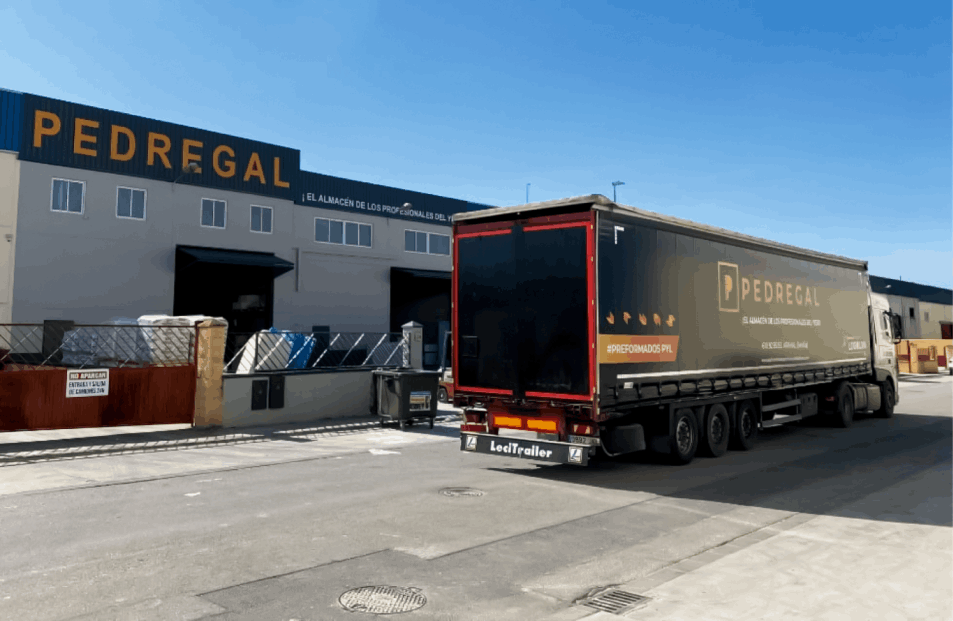
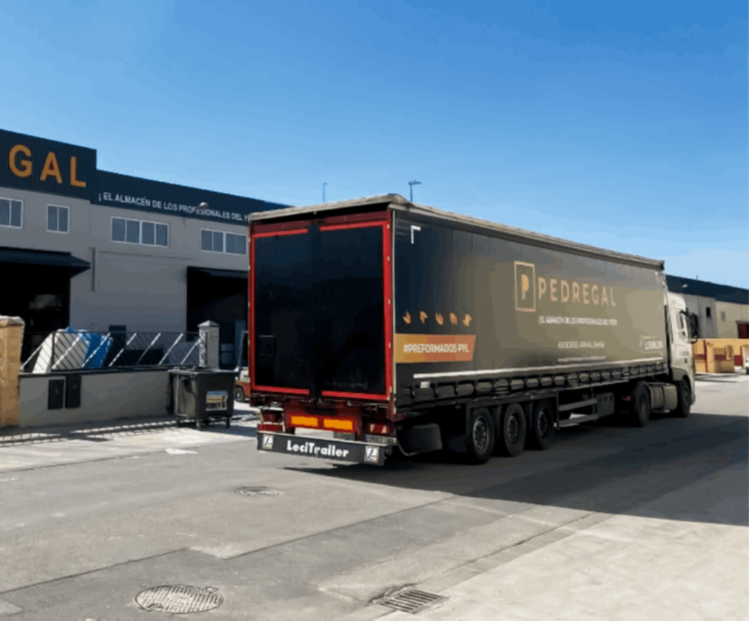
E530 25.06
some pics

diff --git a/contacto.html b/contacto.html
@@ -28,7 +28,7 @@
   <link rel="stylesheet" href="assets/theme/css/style.css">
   <link rel="preload" href="https://fonts.googleapis.com/css?family=Open+Sans:300,400,500,600,700,800,300i,400i,500i,600i,700i,800i&display=swap" as="style" onload="this.onload=null;this.rel='stylesheet'">
   <noscript><link rel="stylesheet" href="https://fonts.googleapis.com/css?family=Open+Sans:300,400,500,600,700,800,300i,400i,500i,600i,700i,800i&display=swap"></noscript>
-  <link rel="preload" as="style" href="assets/mobirise/css/mbr-additional.css?v=L7OSmC"><link rel="stylesheet" href="assets/mobirise/css/mbr-additional.css?v=L7OSmC" type="text/css">
+  <link rel="preload" as="style" href="assets/mobirise/css/mbr-additional.css?v=pc1Nrc"><link rel="stylesheet" href="assets/mobirise/css/mbr-additional.css?v=pc1Nrc" type="text/css">
 
   
   
@@ -111,7 +111,7 @@
 				<h2 class="mbr-section-title align-left pb-4 mbr-semibold mbr-white mbr-fonts-style display-2">Escríbenos</h2>
 				<p class="mbr-text mbr-black align-left pb-4 mbr-regular mbr-light mbr-fonts-style display-4">Si tienes una consulta o pedido, podemos tramitártelo desde aquí:</p>
 				<!---Formbuilder Form--->
-				<form action="https://mobirise.eu/" method="POST" class="mbr-form form-with-styler" data-form-title="Form Name"><input type="hidden" name="email" data-form-email="true" value="kXTuqQQXULKgaI8L+1+eXUiyFjQS5ahZ4GwKZB/ZqEdPJ8copq9Xq09QsXQu7sDzs+h66AgQ6lte8BAE84AjK6fihJJqXpO1wkY1liAQ7TqZ8alXE6sE3B7VglZC79Q/.qUcSE38Y7LsvSfhCV2qW32PEfmiQZrafhAjwimIVb06x+5Ud3JGBBqJZE5I9yBkrFVQOPmJMUUolmeE9j+BW857jus637203sJrnFZ2IPC9rx7717Iys3um/DnqN8RbZ">
+				<form action="https://mobirise.eu/" method="POST" class="mbr-form form-with-styler" data-form-title="Form Name"><input type="hidden" name="email" data-form-email="true" value="JcQ/8vXCR/yCTgd2Mrsrk5bYSQI/uXsM+jv8yhmg3DZz15f9nyDM+RUjUfN7Ob+GPRODaCyi9nUe1vpY6Ljfjcx40Cmx9qHYejlQFJGynZklVY4mf+3QE5Yeyo9Z5rpA.Q2lLM++DhjjOnyY6if0gJxwH27CbdDvy1pPdYDnLwpKdXY5378R1HnVfjJbVrI3+EB1gXYI/RGLifT9BQTdsBHZijwLgvpTRWaDVtp6HZHMcdAecpfsUt3Q455u5Dav2">
 					<div class="form-row">
 						<div hidden="hidden" data-form-alert="" class="alert alert-success col-12">Gracias por tu mensaje</div>
 						<div hidden="hidden" data-form-alert-danger="" class="alert alert-danger col-12">Oops...! some
@@ -165,7 +165,7 @@
                         <h2 class="mbr-section-title mbr-fonts-style display-2"><strong data-mobirise-ai-param-name="title" data-mobirise-ai-param-type="string" data-mobirise-ai-param-prompt="sectionTitleMax4Words">Encuéntranos</strong></h2>
                     </div>
                    
-                        <div class="google-map"><iframe frameborder="0" style="border:0" src="https://www.google.com/maps/embed/v1/place?key=AIzaSyAtXm0x23nRCgazjDV2Kl3GTHRP411ougQ&amp;q=C/ Fontaneros, 2.Arahal, Sevilla." allowfullscreen=""></iframe></div>
+                        <div class="google-map"><iframe frameborder="0" style="border:0" src="https://www.google.com/maps/embed/v1/place?key=AIzaSyB7QWkvlxV39ZsyKvhZRjPGVqlJFvxxNkw&amp;q=C/ Fontaneros, 2.Arahal, Sevilla." allowfullscreen=""></iframe></div>
                         
                            
                 </div>

diff --git a/index.html b/index.html
@@ -28,7 +28,7 @@ Nuestro almacén es la continuación a una empresa con más de 20 años de exper
   <link rel="stylesheet" href="assets/theme/css/style.css">
   <link rel="preload" href="https://fonts.googleapis.com/css?family=Open+Sans:300,400,500,600,700,800,300i,400i,500i,600i,700i,800i&display=swap" as="style" onload="this.onload=null;this.rel='stylesheet'">
   <noscript><link rel="stylesheet" href="https://fonts.googleapis.com/css?family=Open+Sans:300,400,500,600,700,800,300i,400i,500i,600i,700i,800i&display=swap"></noscript>
-  <link rel="preload" as="style" href="assets/mobirise/css/mbr-additional.css?v=znbkaa"><link rel="stylesheet" href="assets/mobirise/css/mbr-additional.css?v=znbkaa" type="text/css">
+  <link rel="preload" as="style" href="assets/mobirise/css/mbr-additional.css?v=G4CUcb"><link rel="stylesheet" href="assets/mobirise/css/mbr-additional.css?v=G4CUcb" type="text/css">
 
   
   
@@ -69,7 +69,7 @@ Nuestro almacén es la continuación a una empresa con más de 20 años de exper
                 <li class="nav-item">
                     <a class="nav-link link text-success display-7" href="contacto.html">CONTACTO&nbsp; &nbsp; &nbsp; &nbsp; &nbsp; &nbsp; &nbsp; &nbsp; &nbsp; &nbsp; &nbsp;</a>
                 </li></ul>
-            <div class="navbar-buttons mbr-section-btn"><a class="btn btn-sm btn-success display-4" href="tel:0034610929592"><span class="mobi-mbri mobi-mbri-phone mbr-iconfont mbr-iconfont-btn"></span>HOLA</a></div>
+            <div class="navbar-buttons mbr-section-btn"><a class="btn btn-sm btn-success-outline display-4" href="tel:0034610929592"><span class="mobi-mbri mobi-mbri-phone mbr-iconfont mbr-iconfont-btn"></span>HOLA</a></div>
         </div>
     </nav>
 </section>
@@ -114,7 +114,7 @@ Nuestro almacén es la continuación a una empresa con más de 20 años de exper
 			</div>
 
 			<div class="col-lg-6 img-col">
-				<img src="assets/images/almacenes-pedregal-fachada-800x588.webp" alt="Almacenes-pedregal-fachada">
+				<img src="assets/images/pedregal-1080x633.webp" alt="Almacenes-pedregal-fachada">
 				<div class="mbr-section-btn pt-3"><a class="btn btn-lg btn-success display-4" href="tel:+34 610 92 95 92"><span class="mobi-mbri mobi-mbri-right mbr-iconfont mbr-iconfont-btn"></span>CONTACTO</a></div>
 			</div>
 		</div>
@@ -661,7 +661,7 @@ Nuestro almacén es la continuación a una empresa con más de 20 años de exper
             <div class="col-12 col-lg-6 item features-image">
                 <div class="item-wrapper item-without-radius">
                     <div class="item-img">
-                        <img src="assets/images/camion-pedregal-3-953x621.webp" alt="camión -pedregal ">
+                        <img src="assets/images/camion-pedregal-3-747x487.webp" alt="camión -pedregal ">
                     </div>
                     <div class="item-content">
                         <h4 class="item-title mbr-fonts-style display-5"><strong>

diff --git a/presupuesto.html b/presupuesto.html
@@ -28,7 +28,7 @@
   <link rel="stylesheet" href="assets/theme/css/style.css">
   <link rel="preload" href="https://fonts.googleapis.com/css?family=Open+Sans:300,400,500,600,700,800,300i,400i,500i,600i,700i,800i&display=swap" as="style" onload="this.onload=null;this.rel='stylesheet'">
   <noscript><link rel="stylesheet" href="https://fonts.googleapis.com/css?family=Open+Sans:300,400,500,600,700,800,300i,400i,500i,600i,700i,800i&display=swap"></noscript>
-  <link rel="preload" as="style" href="assets/mobirise/css/mbr-additional.css?v=X6CDSv"><link rel="stylesheet" href="assets/mobirise/css/mbr-additional.css?v=X6CDSv" type="text/css">
+  <link rel="preload" as="style" href="assets/mobirise/css/mbr-additional.css?v=91Jdu0"><link rel="stylesheet" href="assets/mobirise/css/mbr-additional.css?v=91Jdu0" type="text/css">
 
   
   
@@ -91,7 +91,7 @@
 
             <div class="col-lg-6 col-md-12 mx-auto mbr-form" data-form-type="formoid">
 <!--Formbuilder Form-->
-<form action="https://mobirise.eu/" method="POST" class="mbr-form form-with-styler" data-form-title="Presupuesto"><input type="hidden" name="email" data-form-email="true" value="FL7QJx4s9Tod4sohIuxjzAKH5OmcVGQ1UqHRRW1jUHFeNw0uqHRNNxIXmnJuhgFLeJ/A+hD5lrePoY4Z4oKs8prNDmK6uuvWOtniE6bhmvIkxQFHSe/FWhauSbFfwHLW.U8X2jNK3sg9GhZQlLne/aDch5HpKu9zVFSrg1+x+oUzIicjkZPsfINT+kF8jNBfemxpM2pDjoEDa+MiLnYoYJ1lcOfY9ckpIbgL2hoXQt9M8lr5Vu0V1JXw6YRzPrPMT">
+<form action="https://mobirise.eu/" method="POST" class="mbr-form form-with-styler" data-form-title="Presupuesto"><input type="hidden" name="email" data-form-email="true" value="UgOY4tV3xmFp1h1n7BnQsH3XWCA5PPTwQfPGb6szCjbeBV+ee93vw9obdHuU6w5bkw/TyYavgvYX0UpONvE3Fir3Mr/AAG3r+Vh6XfMeMs/m+rVQmPsBICCyuNKXjOQJ.0fu+ylCmFXSkZk1TjBCeQkT0G6KEgE/E+V5GGfftdn++wm9ZsDGOW1yOgQps9K1tih5gDF4QmPYQMTEviCj80F2pagHPOMz6xZKsgt74+pCJwF4N3L3maq0M0zZRNPee">
 <div class="form-row">
 <div hidden="hidden" data-form-alert="" class="alert alert-success col-12">Gracias por tu solicitud</div>
 <div hidden="hidden" data-form-alert-danger="" class="alert alert-danger col-12">Oops...! some problem!</div>

diff --git a/politica-de-cookies.html b/politica-de-cookies.html
@@ -26,7 +26,7 @@
   <link rel="stylesheet" href="assets/theme/css/style.css">
   <link rel="preload" href="https://fonts.googleapis.com/css?family=Open+Sans:300,400,500,600,700,800,300i,400i,500i,600i,700i,800i&display=swap" as="style" onload="this.onload=null;this.rel='stylesheet'">
   <noscript><link rel="stylesheet" href="https://fonts.googleapis.com/css?family=Open+Sans:300,400,500,600,700,800,300i,400i,500i,600i,700i,800i&display=swap"></noscript>
-  <link rel="preload" as="style" href="assets/mobirise/css/mbr-additional.css?v=CUayyO"><link rel="stylesheet" href="assets/mobirise/css/mbr-additional.css?v=CUayyO" type="text/css">
+  <link rel="preload" as="style" href="assets/mobirise/css/mbr-additional.css?v=ExI4LG"><link rel="stylesheet" href="assets/mobirise/css/mbr-additional.css?v=ExI4LG" type="text/css">
 
   
   

diff --git a/politica-de-privacidad.html b/politica-de-privacidad.html
@@ -26,7 +26,7 @@
   <link rel="stylesheet" href="assets/theme/css/style.css">
   <link rel="preload" href="https://fonts.googleapis.com/css?family=Open+Sans:300,400,500,600,700,800,300i,400i,500i,600i,700i,800i&display=swap" as="style" onload="this.onload=null;this.rel='stylesheet'">
   <noscript><link rel="stylesheet" href="https://fonts.googleapis.com/css?family=Open+Sans:300,400,500,600,700,800,300i,400i,500i,600i,700i,800i&display=swap"></noscript>
-  <link rel="preload" as="style" href="assets/mobirise/css/mbr-additional.css?v=aWUlPR"><link rel="stylesheet" href="assets/mobirise/css/mbr-additional.css?v=aWUlPR" type="text/css">
+  <link rel="preload" as="style" href="assets/mobirise/css/mbr-additional.css?v=gKVOyl"><link rel="stylesheet" href="assets/mobirise/css/mbr-additional.css?v=gKVOyl" type="text/css">
 
   
   
